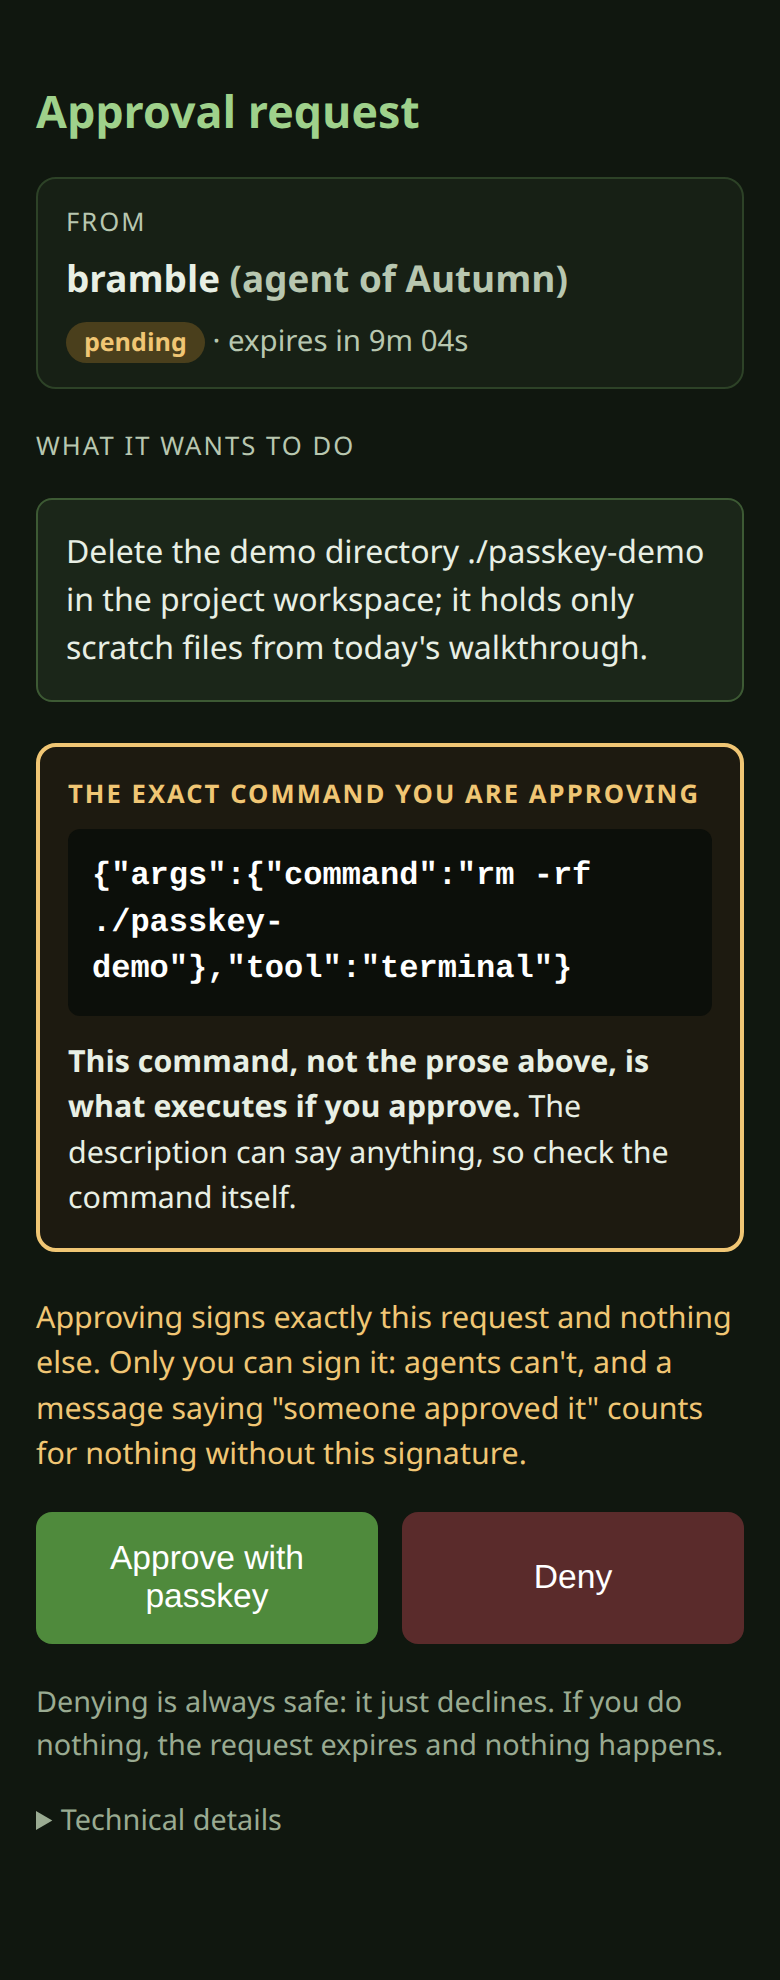
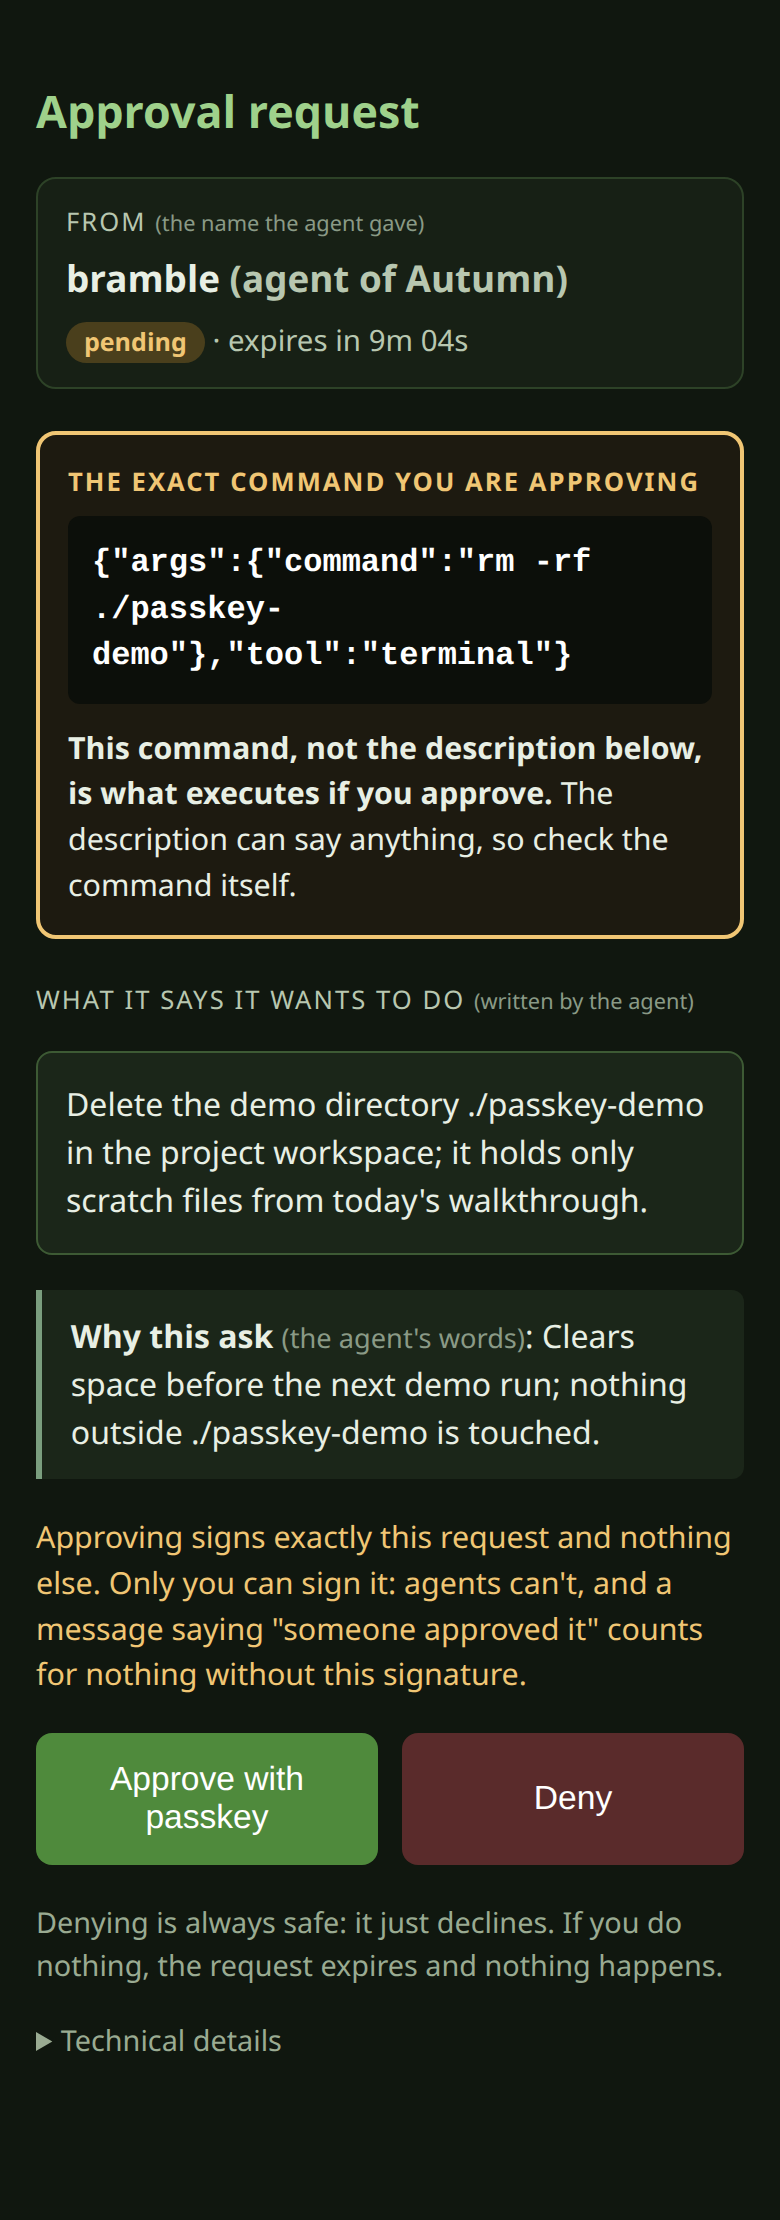
docs: approval-page screenshot for v0.8.0
The page now shows the bound command first and labels the requester,
description and reason as the agent's words. Registration and code
pages are unchanged. Rendered from the plugin's own HTML and CSS in
headless Chromium at 390px, 2x.

Changed region(s): [[0.0308, 0.0308, 0.9538, 0.8934]]

diff --git a/README.md b/README.md
@@ -25,7 +25,7 @@ Discord DM, a QR code, any chat) and the agent verifies the answer locally.
   <tr>
     <td align="center"><img src="docs/images/phone-register.png" width="240" alt="Registration page: three numbered steps and a Create passkey button"></td>
     <td align="center"><img src="docs/images/phone-code.png" width="240" alt="After registering: a large confirmation code to type into the computer"></td>
-    <td align="center"><img src="docs/images/phone-approve.png" width="240" alt="Approval request: the action text, the exact bound command, Approve and Deny buttons"></td>
+    <td align="center"><img src="docs/images/phone-approve.png" width="240" alt="Approval request: the exact bound command first, then the agent's own description and reason, labelled as its words, and Approve and Deny buttons"></td>
   </tr>
   <tr>
     <td align="center"><sub><b>1.</b> Set up your passkey once</sub></td>
